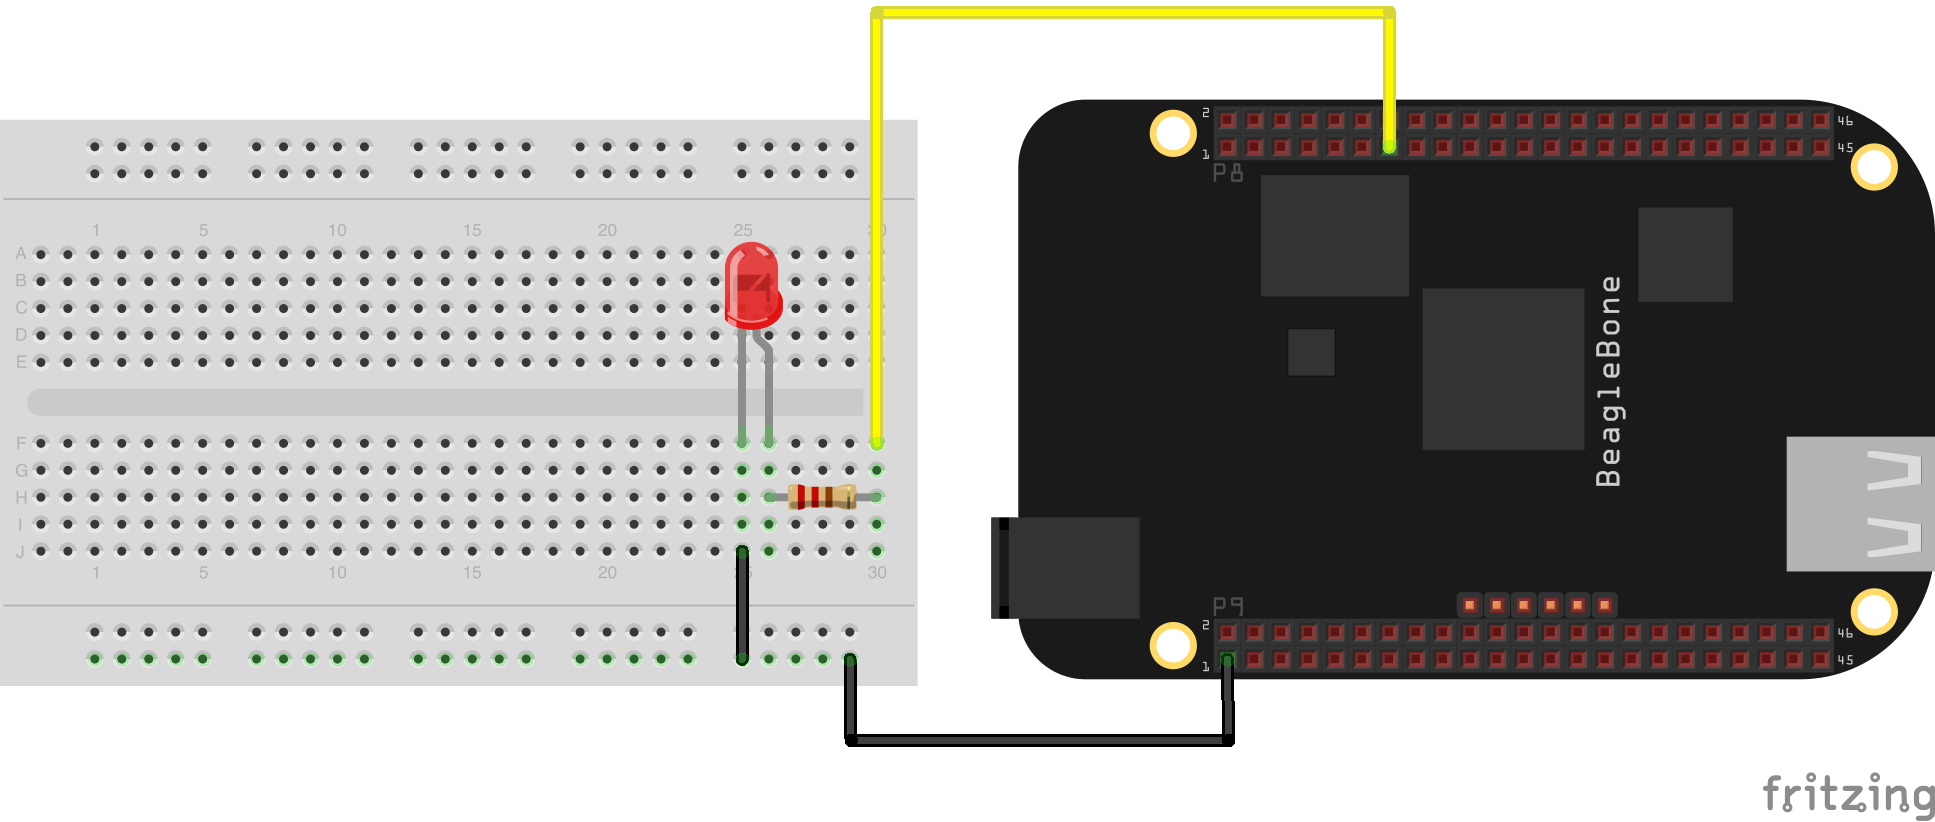
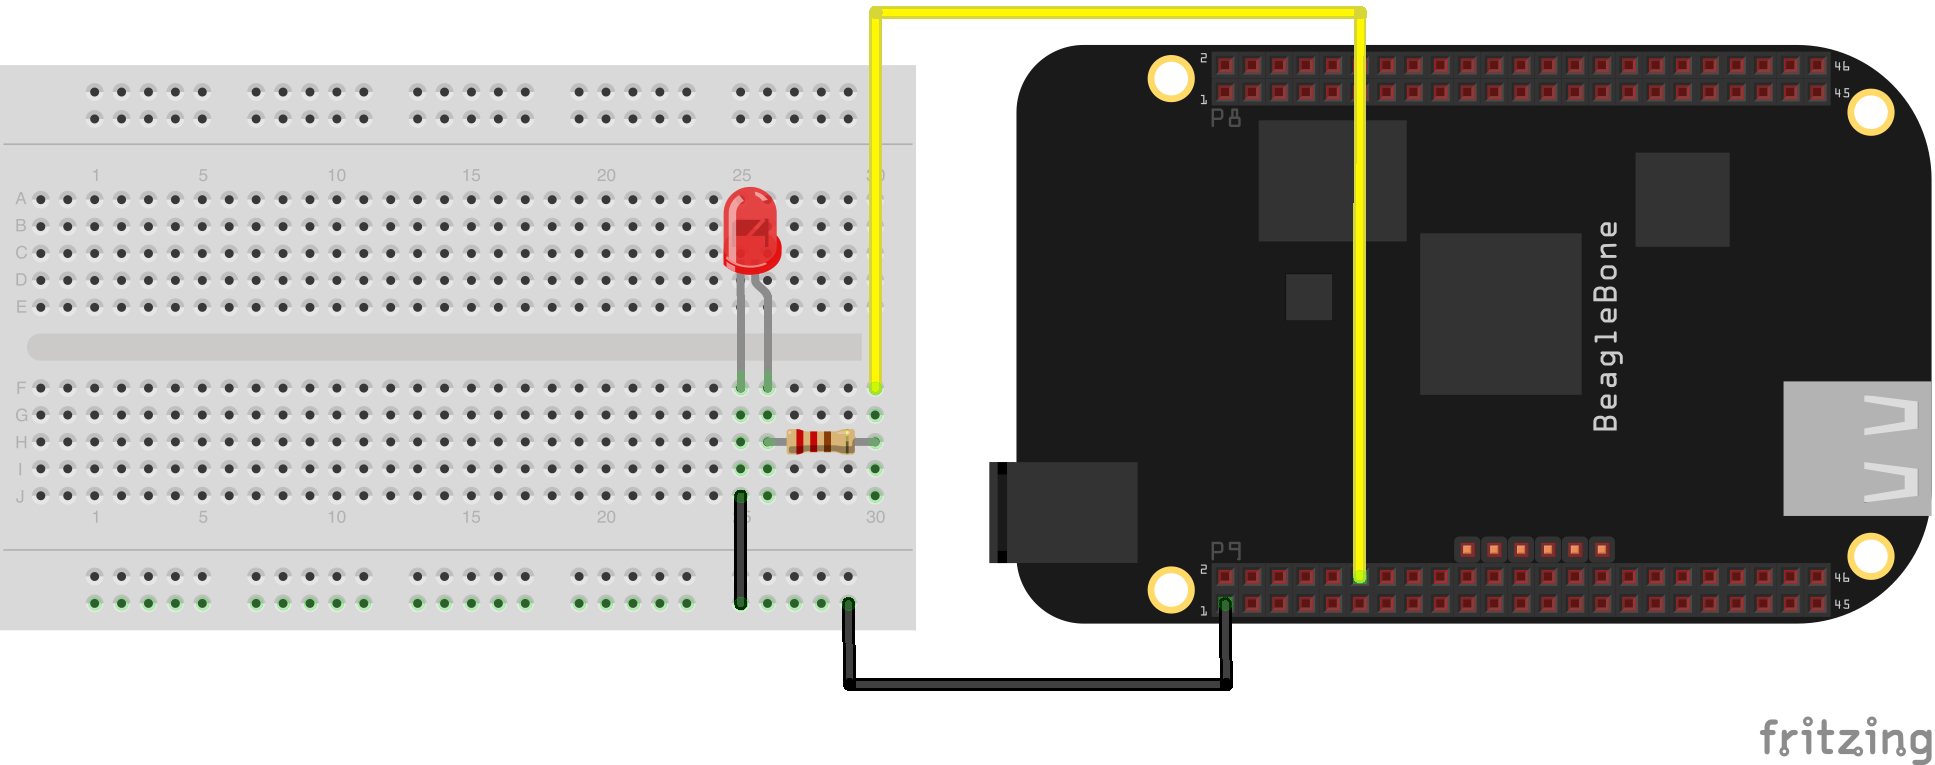
Modif. mineures

diff --git a/content/commande-led-par-gpio.rst b/content/commande-led-par-gpio.rst
@@ -5,7 +5,7 @@ Commande de LED par GPIO
 :tags: électronique, BBB, GPIO, BoneScript
 :author: Nico
 :category: Beaglebone Black
-:Status: draft
+:use_math: true
 
 Aujourd'hui, je profite de ma présence à `OpenAtelier <http://openatelier.pingbase.net/>`_ pour me faire la main sur la carte Beaglebone Black et commencer à expérimenter quelques montages.
 
@@ -20,32 +20,35 @@ Pour ce premier article, l'objectif *très* simple consiste à commander et fair
    :scale: 25%
    :class: gallery
 
-Ce montage est simplement constitué d'une LED cablée en série avec une résistance de 220 ohm. Le port GPIO fournissant une tension de 3,3V, la résistance permet de limiter à 15mA le courant tranversant la LED.
+Ce montage est simplement constitué d'une LED cablée en série avec une résistance de 220 ohm. La valeur de la résistance est calculée de manière à rester sous la limite de 6mA préconisé sur `la fiche du processeur <http://www.ti.com/lit/ds/symlink/am3359.pdf>`_ (colonne *Buffer strength* du tableau 2-7). 
+Etant donné que le port GPIO fournissant une tension de 3,3V et une chute de tension 2,2V aux bornes de la LED, la résistance permet de limiter à 5mA le courant tranversant la LED:
 
-Le principe de ce montage consiste à commander l'état (0 ou 1) du port GPIO pour alimenter ou non la LED et donc l'allumer ou l'éteindre. Sur ce montage, le port GPIO choisi est le port nommé ``P8_13`` et qui correspond à la patte 13 du connecteur P8. Pourquoi ce port en particulier alors qu'il en existe tant d'autres ? ... 
+.. math::
+
+ I_{led}=\frac{(V_{gpio}-V_{led})}{R}=\frac{(3,3-2,2)}{220}=5mA 
+
+Le principe de ce montage consiste à commander l'état (0 ou 1) du port GPIO pour alimenter ou non la LED et donc l'allumer ou l'éteindre. Sur ce montage, le port GPIO choisi est le port nommé ``GPIO1_28`` et qui correspond à la patte 12 du connecteur P9. Pourquoi ce port en particulier alors qu'il en existe tant d'autres ? ... tout simplement car par défaut ce port n'est pas utilisé et peut donc être utilisé comme GPIO sans paramétrage spécifique.
 
 Pour ce premier essai, j'ai utilisé la librairie `BoneScript <http://beagleboard.org/Support/BoneScript>`_ qui permet de d'accéder facilement au matériel du Beaglebone Black via le langage Javascript. L'IDE Cloud9 `installé par défaut sur le système Beaglebone Black <http://192.168.7.2:3000>`_ intègre cette librairie. Voici le programme réalisé :
 
-.. code-block:: javascript
-   :linenos:
+.. raw:: html
 
-   /*Clignotement de la led connectée sur le port P8_13*/
-   var b = require('bonescript');
+ <script src="https://gist.github.com/njouanin/d5724b9b47e7b8b9f214.js"></script>
 
-   var pins = b.bone.pins;
-   var ledPin = pins.P8_13;
+Le script commence (ligne 2) par importer les fonctionnalités de la librairie BoneScript. Les lignes 4 à 7 permettent d'obtenir une référence sur la patte P9_12 (sur laquelle est connectée la LED) et de la configurer en mode sortie (``b.OUTPUT``). L'état de la LED est contrôlé par la méthode ``toggle``, appelée toutes les toutes les 500 milli-secondes. La méthode change alternativement l'état du port (``LOW`` ou ``HIGH``) sur la patte ce qui a pour effet de faire clignoter la LED.
 
-   b.pinMode(ledPin, b.OUTPUT);
+Pour finir, j'ai voulu testé le même script en ligne de commande en accédant directement au port GPIO via le noyau Linux. Voici le script réalisé :
 
-   var state = b.LOW;
-   b.digitalWrite(ledPin, state);
- 
-   setInterval(toggle, 500);
- 
-   function toggle() {
-     if(state == b.LOW) state = b.HIGH;
-     else state = b.LOW;
-     b.digitalWrite(ledPin, state);
-   }
+.. raw:: html
 
-Le script commence (ligne 2) par importer les fonctionnalités de la librairie BoneScript. Les lignes 4 à 7 permettent d'obtenir une référence sur la patte P8_13 (sur laquelle est connectée la LED) et de la configurer en mode sortie (``b.OUTPUT``). L'état de la LED est contrôlé par la méthode ``toggle``, appelée toutes les toutes les 500 milli-secondes. La méthode change alternativement l'état du port (``LOW`` ou ``HIGH``) sur la patte ce qui a pour effet de faire clignoter la LED.
+ <script src="https://gist.github.com/njouanin/58648d33fed27e8dd4ac.js"></script>
+
+Le script commence par réserver (ligne 2) un accès au port ``GPIO1_28``. La valeur 60 est calculée à partir de l'emplacement du port par la formule suivante :
+
+.. math::
+
+ port=32*n + p
+
+Les valeurs de :math:`n` et :math:`p` sont déterminés à partir du nom du port, par la notation : GPIO **n** _ **p** . Pour accéder au port ``GPIO1_28`` il convient donc d'écrire la valeur :math:`32*1+28=60` dans le fichier ``export``. 
+
+La ligne 4 a ensuite pour objectif de configurer le port en sortie. Enfin le script ligne 5, écrit alternativement les valeurs 0 ou 1 dans le fichier ``value`` ce qui a pour effet de changer l'état du port et donc d'allumer ou éteindre la LED.
